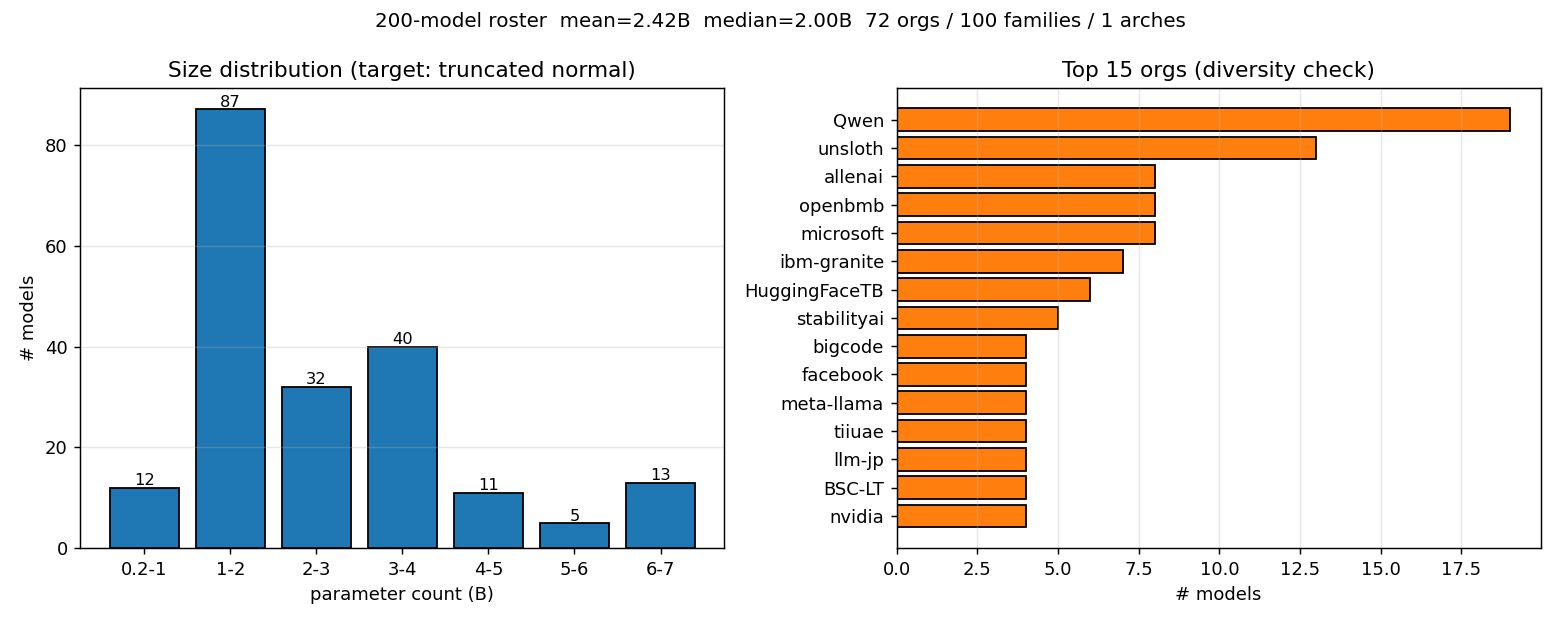
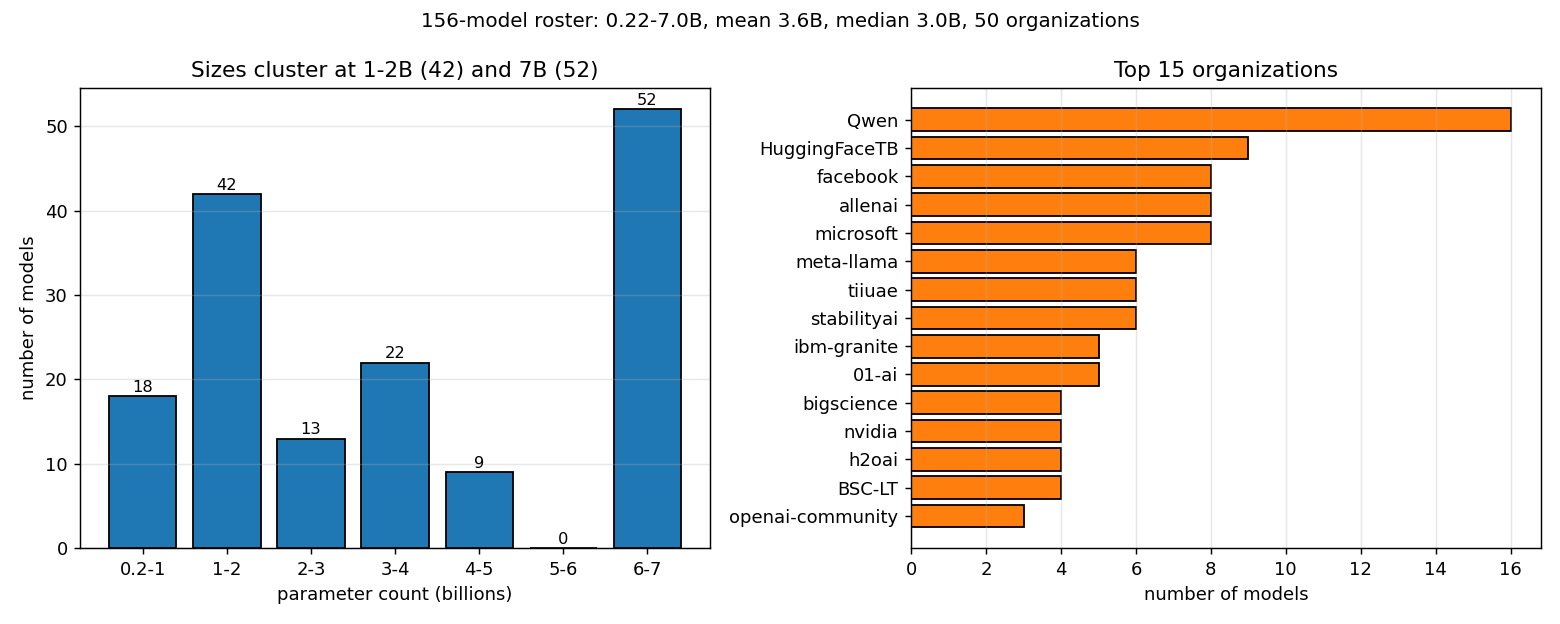
Data availability: refreshed parameter distribution figure and README

diff --git a/AdaptiveTesting/Research/05_Data_Availability/figures/regen_param_dist.py b/AdaptiveTesting/Research/05_Data_Availability/figures/regen_param_dist.py
@@ -1,0 +1,66 @@
+#!/usr/bin/env python
+"""Render the parameter-distribution figure from the live models_200.yaml roster.
+
+Reads AdaptiveTesting/Inputs/Models/models_200.yaml (156 checkpoints) and writes
+models_200_param_dist.png next to this script. Data is read as-is; this only
+plots it.
+"""
+import os
+from collections import Counter
+
+import numpy as np
+import yaml
+
+HERE = os.path.dirname(os.path.abspath(__file__))
+REPO = os.path.abspath(os.path.join(HERE, "../../../.."))
+YAML = os.path.join(REPO, "AdaptiveTesting/Inputs/Models/models_200.yaml")
+OUT_PNG = os.path.join(HERE, "models_200_param_dist.png")
+
+os.environ.setdefault("MPLCONFIGDIR", os.path.join(HERE, ".mplcache"))
+import matplotlib
+
+matplotlib.use("Agg")
+import matplotlib.pyplot as plt
+
+
+def main():
+    models = yaml.safe_load(open(YAML))["models"]
+    params = np.array([m["params_b"] for m in models], float)
+    orgs = [m["id"].split("/")[0] for m in models]
+
+    edges = [0.2, 1, 2, 3, 4, 5, 6, 7.001]
+    labels = ["0.2-1", "1-2", "2-3", "3-4", "4-5", "5-6", "6-7"]
+    counts = np.histogram(params, bins=edges)[0]
+
+    fig, axes = plt.subplots(1, 2, figsize=(12, 4.8))
+
+    ax = axes[0]
+    ax.bar(labels, counts, color="#1f77b4", edgecolor="black")
+    ax.set_xlabel("parameter count (billions)")
+    ax.set_ylabel("number of models")
+    ax.set_title("Sizes cluster at 1-2B (42) and 7B (52)")
+    for i, c in enumerate(counts):
+        ax.text(i, c + 0.5, str(int(c)), ha="center", fontsize=9)
+    ax.grid(True, axis="y", alpha=0.3)
+
+    ax2 = axes[1]
+    top = Counter(orgs).most_common(15)
+    ax2.barh([t[0] for t in reversed(top)], [t[1] for t in reversed(top)],
+             color="#ff7f0e", edgecolor="black")
+    ax2.set_xlabel("number of models")
+    ax2.set_title("Top 15 organizations")
+    ax2.grid(True, axis="x", alpha=0.3)
+
+    fig.suptitle(
+        f"156-model roster: {params.min():.2f}-{params.max():.1f}B, "
+        f"mean {params.mean():.1f}B, median {np.median(params):.1f}B, "
+        f"{len(set(orgs))} organizations",
+        fontsize=11,
+    )
+    fig.tight_layout()
+    fig.savefig(OUT_PNG, dpi=130)
+    print(f"wrote {OUT_PNG}")
+
+
+if __name__ == "__main__":
+    main()

diff --git a/AdaptiveTesting/Research/05_Data_Availability/README.md b/AdaptiveTesting/Research/05_Data_Availability/README.md
@@ -1,48 +1,37 @@
-# Availability & quality of response data; parameter distribution
+# Response-data availability and parameter distribution
 
-Evidence for the *Availability and Quality of Response Data* and *Parameter Distribution*
-sections of `Outline.md`.
+Evidence for the response-data and parameter-distribution sections of `Outline.md`.
 
 ## Response-data sources present locally
 
-| Source | Benchmarks | #models | Per-item detail | Notes |
+Five sources were checked. Four are on disk; OpenHelm is not.
+
+| Source | Benchmarks | Models | Per-item detail | Notes |
 |---|---|---:|---|---|
-| **OpenLM** (Open LLM Leaderboard v2 dumps) | bbh, gpqa, math, ifeval, musr | **1,102** | question, response text, predicted, gold, result, scoring_method | 0.213–7.0B; ~28 GB. `data/openlm_download_status.csv` (ok=1,101 / no_samples=84 / err=3). |
-| **ATLAS** | ARC (full response matrix), + IRT item banks for gsm8k/hellaswag/truthfulqa/winogrande/math/ifeval | 3,747 train / 417 test (ARC) | 0/1 response matrix + published 3PL params | Full response matrix present **only for ARC**; other benches ship item params + accuracy summaries. |
-| **Local full200** (in-house inference) | MCQ: pedagogy, piqa, socialiqa; Open: biggen, bridge, infobench, tutorbench, tutoreval, wildbench | 52 completed (of 156 roster) | MCQ = loglikelihood (no latency); Open = responses.jsonl with tokens + latency | Controlled/reproducible; the only source with per-item latency. |
-| **Local LLM-Judge MCQ** | arc_challenge, arc_easy, openbookqa, sciq (+ small pilots) | 62–63 | loglikelihood correctness | The in-house calibration pool for §1–3 of `../01_MCQ_ATLAS`. |
-| **OpenHelm** | — | — | — | **Not present locally** (cited in outline only). |
+| OpenLM (Open LLM Leaderboard v2 dumps) | bbh, gpqa, math, ifeval, musr | 1,102 | question, response text, predicted, gold, result, scoring_method | 0.213 to 7.0B, about 28 GB. `data/openlm_download_status.csv`: ok=1,101, no_samples=84, err=3. |
+| ATLAS | ARC (full response matrix), plus IRT item banks for gsm8k, hellaswag, truthfulqa, winogrande, math, ifeval | 3,747 train / 417 test (ARC) | 0/1 response matrix plus published 3PL params | Full response matrix present only for ARC. Other benchmarks ship item params and accuracy summaries. |
+| Local full200 (in-house inference) | MCQ: pedagogy, piqa, socialiqa. Open: biggen, bridge, infobench, tutorbench, tutoreval, wildbench | 52 done of 156 roster | MCQ = loglikelihood (no latency). Open = responses.jsonl with tokens and latency | The only source with per-item latency. |
+| Local LLM-Judge MCQ | arc_challenge, arc_easy, openbookqa, sciq (plus small pilots) | 62 to 63 | loglikelihood correctness | The in-house calibration pool for sections 1 to 3 of `../01_MCQ_ATLAS`. |
+| OpenHelm | (none) | (none) | (none) | Not present locally. Cited in the outline only. |
 
-### Quality / coverage observations (for the outline's discussion)
+## Quality and coverage
 
-- **Prompting/scoring variability.** OpenLM mixes scoring methods across benchmarks
-  (`acc_norm` for bbh/gpqa/musr, `exact_match` for math, `ifeval_prompt_strict`) and keeps
-  the raw generated text; the in-house MCQ dumps strip to a loglikelihood choice with no
-  latency. Any cross-source pooling has to reconcile these.
-- **Benchmarks are slow to reach OpenLM.** The two datasets are almost complementary:
-  OpenLM has the *newer* benches (gpqa, musr, math, ifeval, bbh) but **none** of ATLAS's 5
-  core MCQ benches (arc, hellaswag, gsm8k, truthfulqa, winogrande). A brand-new,
-  skill-specific benchmark (e.g. Pedagogy) has **no** public response data at all — which
-  is exactly why `../01_MCQ_ATLAS §5` had to generate its own response matrix.
-- **Held-out realism.** ATLAS's local held-out ARC set (417 models) spans well beyond 7B
-  (Mixtral, 13B, …), whereas the EDU-LLM regime is 0.2–7B; the range-restricted
-  recalibration in `../01_MCQ_ATLAS §1` is the honest apples-to-apples comparison.
+Scoring methods differ across sources. OpenLM mixes `acc_norm` (bbh, gpqa, musr), `exact_match` (math), and `ifeval_prompt_strict`, and keeps the raw generated text. The in-house MCQ dumps strip each item to a loglikelihood choice with no latency. Any cross-source pooling has to reconcile these first.
+
+The two large sources barely overlap. OpenLM has the newer benchmarks (gpqa, musr, math, ifeval, bbh) but none of the five ATLAS core MCQ benchmarks (arc, hellaswag, gsm8k, truthfulqa, winogrande). A new skill-specific benchmark such as Pedagogy has no public response data at all, which is why `../01_MCQ_ATLAS §5` had to generate its own response matrix.
+
+The held-out sets sit at different scales. The local held-out ARC set (417 models) reaches well past 7B (Mixtral, 13B, and larger), while the EDU-LLM models run 0.2 to 7B. The range-restricted recalibration in `../01_MCQ_ATLAS §1` is the matched comparison.
 
 ## Parameter distribution
 
-- Model rosters live in `AdaptiveTesting/Inputs/Models/`. The main curated roster,
-  `models_200.yaml`, currently holds **156** checkpoints spanning **0.218–7.0B** (mean ≈
-  3.6B), binned roughly: 0.2–1B: 18, 1–2B: 42, 2–3B: 13, 3–4B: 22, 4–5B: 9, 6–7B+: 52.
-  (`data/models_200_stats.txt` still reports the earlier 200-target counts — stale vs the
-  156-entry YAML; noted in `../GAPS.md`.)
-- Distribution figure: `figures/models_200_param_dist.png`.
-- **Calibration-pool skew (important caveat).** The ATLAS 0.5–7B recalibration set
-  (`cal_models_0p5_7b.csv`, 1,686 models) is ~95% 7B — very poor mid-range coverage. This
-  size-skew is part of why the range-restricted recalibration in `../01_MCQ_ATLAS`
-  under-performs the wide-range published bank; a genuinely *uniform* 0.5–7B calibration
-  pool would be a better (and currently missing) comparison.
+Rosters live in `AdaptiveTesting/Inputs/Models/`. The main curated roster, `models_200.yaml`, holds 156 checkpoints from 0.218 to 7.0B (mean 3.6B, median 3.0B) across 50 organizations. Size bins: 0.2 to 1B: 18, 1 to 2B: 42, 2 to 3B: 13, 3 to 4B: 22, 4 to 5B: 9, 5 to 6B: 0, 6 to 7B: 52. See `figures/models_200_param_dist.png` (rebuild with `figures/regen_param_dist.py`).
+
+The stale file `data/models_200_stats.txt` still reports the earlier 200-target counts (200 models, mean 2.42B). Treat it as stale against the 156-entry YAML. This is logged in `../GAPS.md` #15.
+
+The ATLAS recalibration set skews large. `cal_models_0p5_7b.csv` has 1,686 models, about 95% of them 7B, so mid-range coverage is thin. That skew is part of why the range-restricted recalibration in `../01_MCQ_ATLAS` trails the wide-range published bank. A uniform 0.5 to 7B calibration pool would be a better comparison and does not yet exist.
 
 ## Files
-- `data/openlm_download_status.csv` — per-model OpenLM download status + params_b + average.
-- `data/models_200_stats.txt` — roster stats.
-- `figures/models_200_param_dist.png` — parameter histogram.
+- `data/openlm_download_status.csv`: per-model OpenLM download status, params_b, and average.
+- `data/models_200_stats.txt`: roster stats. Stale (200-target counts); use the YAML for live numbers.
+- `figures/models_200_param_dist.png`: size histogram and top organizations for the 156-model roster.
+- `figures/regen_param_dist.py`: rebuilds the figure from the live `models_200.yaml`.
